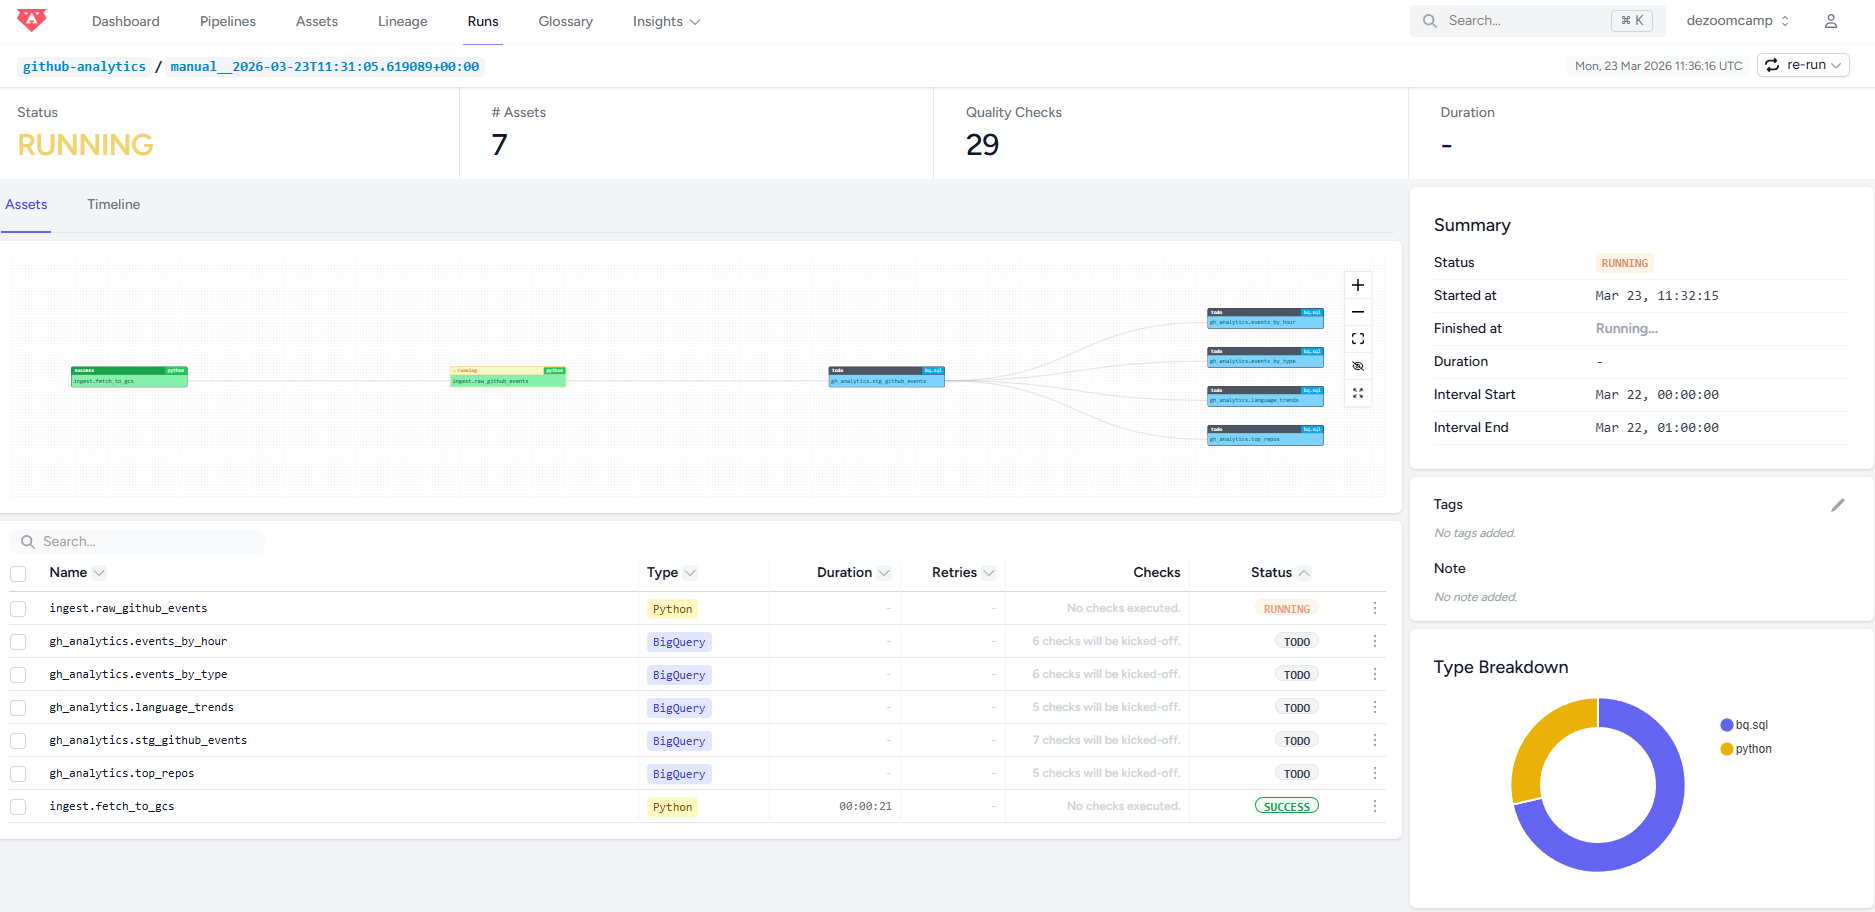
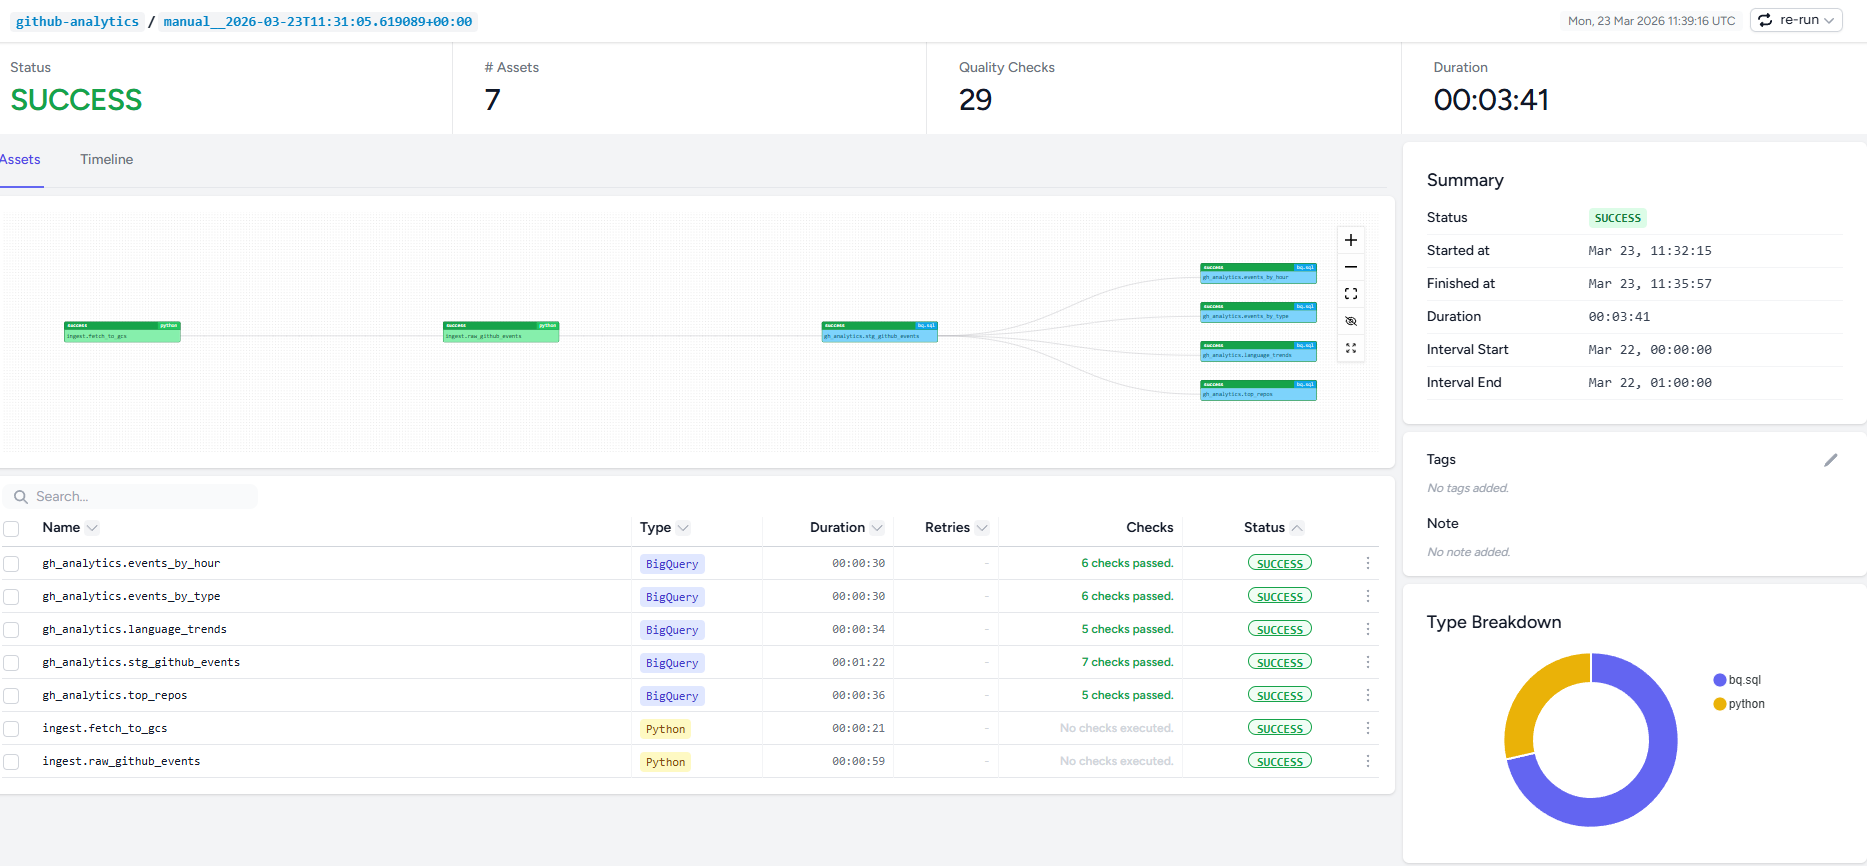
docs: finalize README and engineering updates for Bruin Cloud

diff --git a/docs/ENGINEERING.md b/docs/ENGINEERING.md
@@ -371,36 +371,25 @@ if gcs_hour_object_exists(f"{date}/{hour}"):
 
 > **None of the items below were implemented.** This section documents potential future improvements for a production-grade system. The project is a learning/submission pipeline and intentionally stops here.
 
-1. **Bruin Cloud**
-    - **Validated managed execution:** the pipeline now runs in Bruin Cloud in addition to local CLI execution. A managed full-day run (`2026-03-22 00:00:00 -> 2026-03-23 00:00:00`) completed successfully in `00:10:47` with all 7 assets and all 29 quality checks passing.
-    - **Three supported execution modes:** local `bruin run`, Bruin Cloud UI-triggered runs, and local CLI-triggered remote runs via `bruin cloud runs trigger`.
-    - **Refactored for Cloud runtime:** ingestion code uses Bruin-injected GCP credentials (`bigquery-default` via `BRUIN_GCP_CONNECTION`) instead of depending on raw environment-variable secrets.
-    - **Pipeline variables** (`current_dataset`, `gcs_bucket_name`) are declared in `bruin/pipeline.yml` and resolved via `BRUIN_VARS` JSON injection.
-    - **Hour window derivation:** the asset derives the target hour window from `BRUIN_START_TIMESTAMP`/`BRUIN_END_TIMESTAMP` in managed runs, with local env-var fallback for smoke tests and self-managed execution.
-    - **Repo and project alignment:** the Bruin Cloud project was recreated against `main` (project ID: `dezoomcamp-2026-final-project-69c122c047f3a`) and required a GitHub PAT so the git-sync agent could clone the repository.
-    - **Memory fix for larger intervals:** a scheduled full-day run exposed an `OOMKilled` issue in gzip decompression; this was fixed by streaming decompression in chunks, which is now deployed on `main` and synced to Bruin Cloud.
-    - **What is verified:** local smoke runs work, local CLI-triggered Cloud runs work, Bruin Cloud UI-triggered runs work, and the same repository can execute both short smoke intervals and full-day managed intervals successfully.
-    - Bruin Cloud adds: automatic scheduling, a web-based run monitor, interactive column-level lineage, table/column health checks UI, cost & usage reports, and managed secrets — all connected directly to this Git repo.
-
-2. **Alerting & SLOs**
+1. **Alerting & SLOs**
    - Export data quality check results to Cloud Logging
    - Trigger alerts if pipeline fails or data quality check fails
    - Define SLOs (e.g., "pipeline completes by 11 AM UTC daily")
 
-3. **Data Lineage & Governance**
+2. **Data Lineage & Governance**
    - Integrate with Data Catalog for asset discovery
    - Document business logic (why is hour_of_day capped at 23?)
    - Create runbooks for common failures
 
-4. **Performance Monitoring**
+3. **Performance Monitoring**
    - Track query cost and execution time trends
    - Set budgets and alerts for cost overruns
 
-5. **Incremental Processing**
+4. **Incremental Processing**
    - Implement incremental staging (only process new hourly archives)
    - Pre-aggregate hourly marts to reduce downstream query cost
 
-6. **Testing in Production**
+5. **Testing in Production**
    - Deploy to a staging GCP project; validate before applying to prod
    - Use Terraform workspaces for environment separation
 

diff --git a/README.md b/README.md
@@ -10,6 +10,10 @@
 ![Streamlit](https://img.shields.io/badge/Dashboard-Streamlit-FF4B4B?logo=streamlit&logoColor=white)
 [![Tests](https://github.com/RuiFSP/dezoomcamp-2026-final-project/actions/workflows/test.yml/badge.svg)](https://github.com/RuiFSP/dezoomcamp-2026-final-project/actions/workflows/test.yml)
 
+<p align="center">
+    <img src="docs/screenshots/00_header_final.jpg" alt="Project Header" width="1100" />
+</p>
+
 ## Table of Contents
 
 - [Problem Description](#problem-description)
@@ -69,7 +73,7 @@ The Streamlit application has been deployed to Cloud Run and is available for re
 
 | Bruin Cloud Run Started | Bruin Cloud Run Succeeded |
 |---|---|
-| ![Bruin Cloud Run Started](docs/screenshots/07_bruin_cloud_run_start.PNG) | ![Bruin Cloud Run Succeeded](docs/screenshots/07_bruin_cloud_run_finished.PNG) |
+| ![Bruin Cloud Run Started](docs/screenshots/07_bruin_cloud_run_started.PNG) | ![Bruin Cloud Run Succeeded](docs/screenshots/07_bruin_cloud_run_finished.PNG) |
 
 Bruin Cloud is now validated for this repository as well: the same pipeline can be executed locally with the Bruin CLI, triggered remotely from the Bruin Cloud UI, or triggered remotely from a local machine with `bruin cloud runs trigger`. A full managed 24-hour run completed successfully for the interval `2026-03-22 00:00:00 -> 2026-03-23 00:00:00` in `00:10:47`.
 
@@ -406,13 +410,15 @@ After connecting the repository in Bruin Cloud and setting `BRUIN_CLOUD_API_KEY`
 
 ```bash
 bruin cloud runs trigger \
-    -p dezoomcamp-2026-final-project-69c122c047f3a \
+    -p YOUR_BRUIN_CLOUD_PROJECT_ID \
     --pipeline github-analytics \
     --start-date 2026-03-22T00:00:00Z \
     --end-date 2026-03-22T01:00:00Z
 ```
 
 The same interval can also be triggered from the Bruin Cloud UI with the `re-run` / trigger controls.
+
+Use `bruin cloud projects list` to find your project ID.
 
 #### Backfilling multiple days
 
@@ -541,7 +547,7 @@ Safe-to-commit examples are included in:
 
 ## Notes
 
-- **Bruin Cloud**: This pipeline is ready to be connected to [Bruin Cloud](https://cloud.getbruin.com/register) — a managed platform that adds automatic scheduling, a web run monitor, column-level lineage, data quality dashboards, and cost reporting on top of the same `pipeline.yml` and `bruin/` assets, with no code changes required.
+- **Bruin Cloud**: This pipeline is connected and validated on [Bruin Cloud](https://cloud.getbruin.com/register), including UI-triggered runs and local CLI-triggered managed runs (`bruin cloud runs trigger`).
 - The raw ingestion uses hourly files in GCS to make retries and backfills resumable.
 - The BigQuery raw table reload is idempotent per date.
 - The Cloud Run deployment can be destroyed via `terraform destroy` to avoid ongoing costs. Contact the author for a live demo if needed.